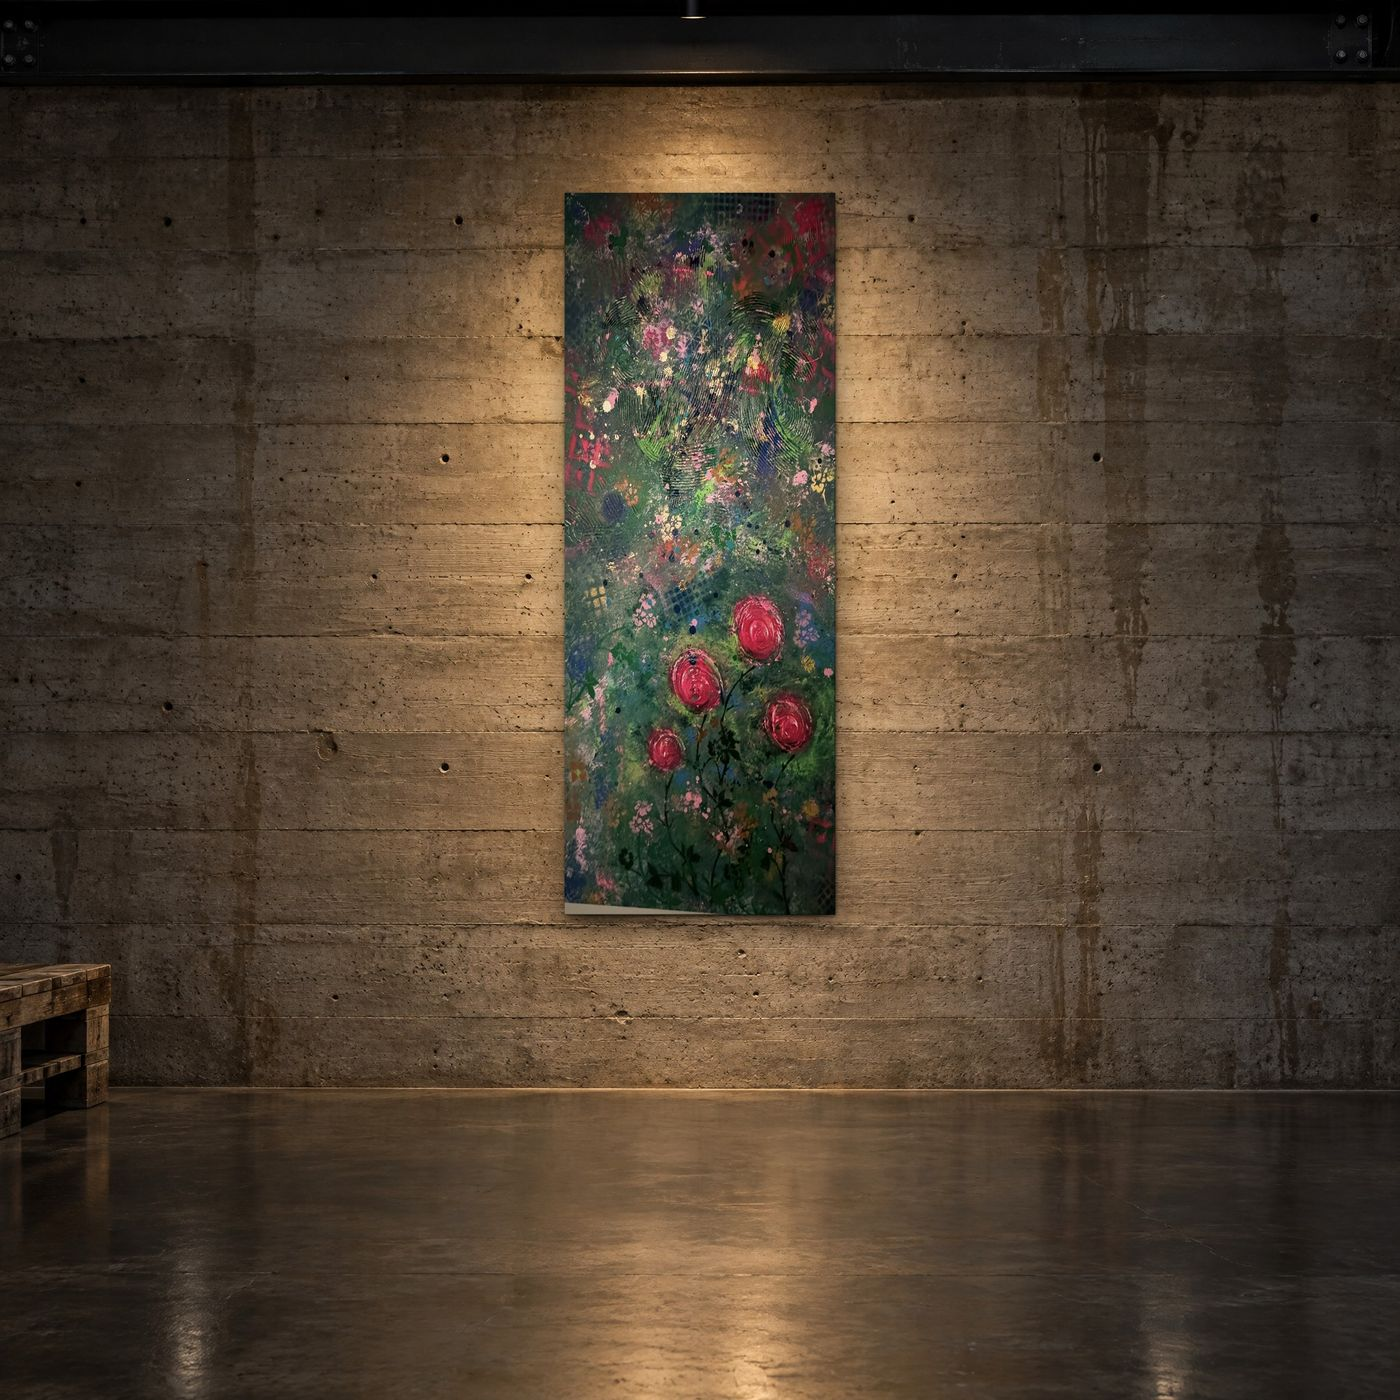
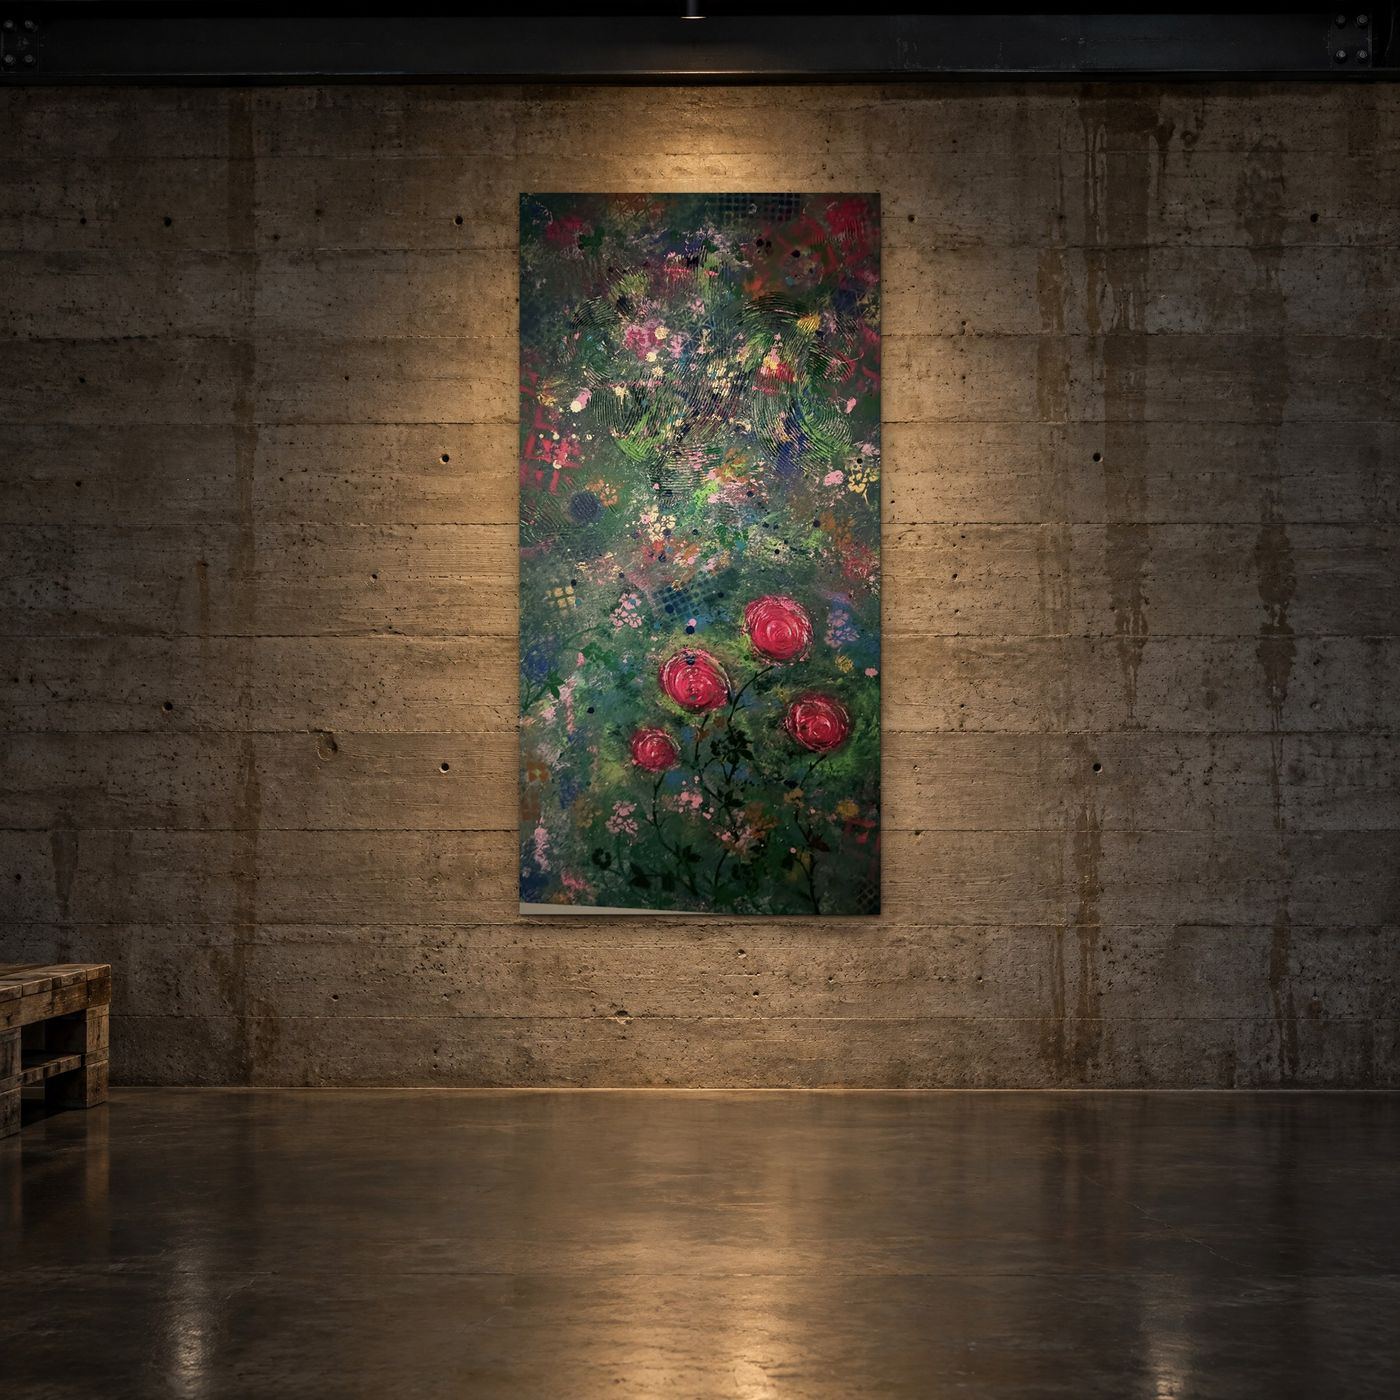
Overgrown is 24 × 48 in
Update the listing and re-render its wall photo at the true size.

Claude-Session: https://claude.ai/code/session_015duu2mxyZctHv8VGpV9Sao

Changed region(s): [[0.3379, 0.1229, 0.645, 0.6757]]

diff --git a/src/data/paintings.js b/src/data/paintings.js
@@ -413,7 +413,7 @@ export const paintings = [
     id: 'overgrown',
     title: 'Overgrown',
     year: 2024,
-    dimensions: '18 × 48 in',
+    dimensions: '24 × 48 in',
     medium: 'Spray Paint, Acrylic, and Mixed Texture',
     framing: 'Unframed',
     price: '$600',
